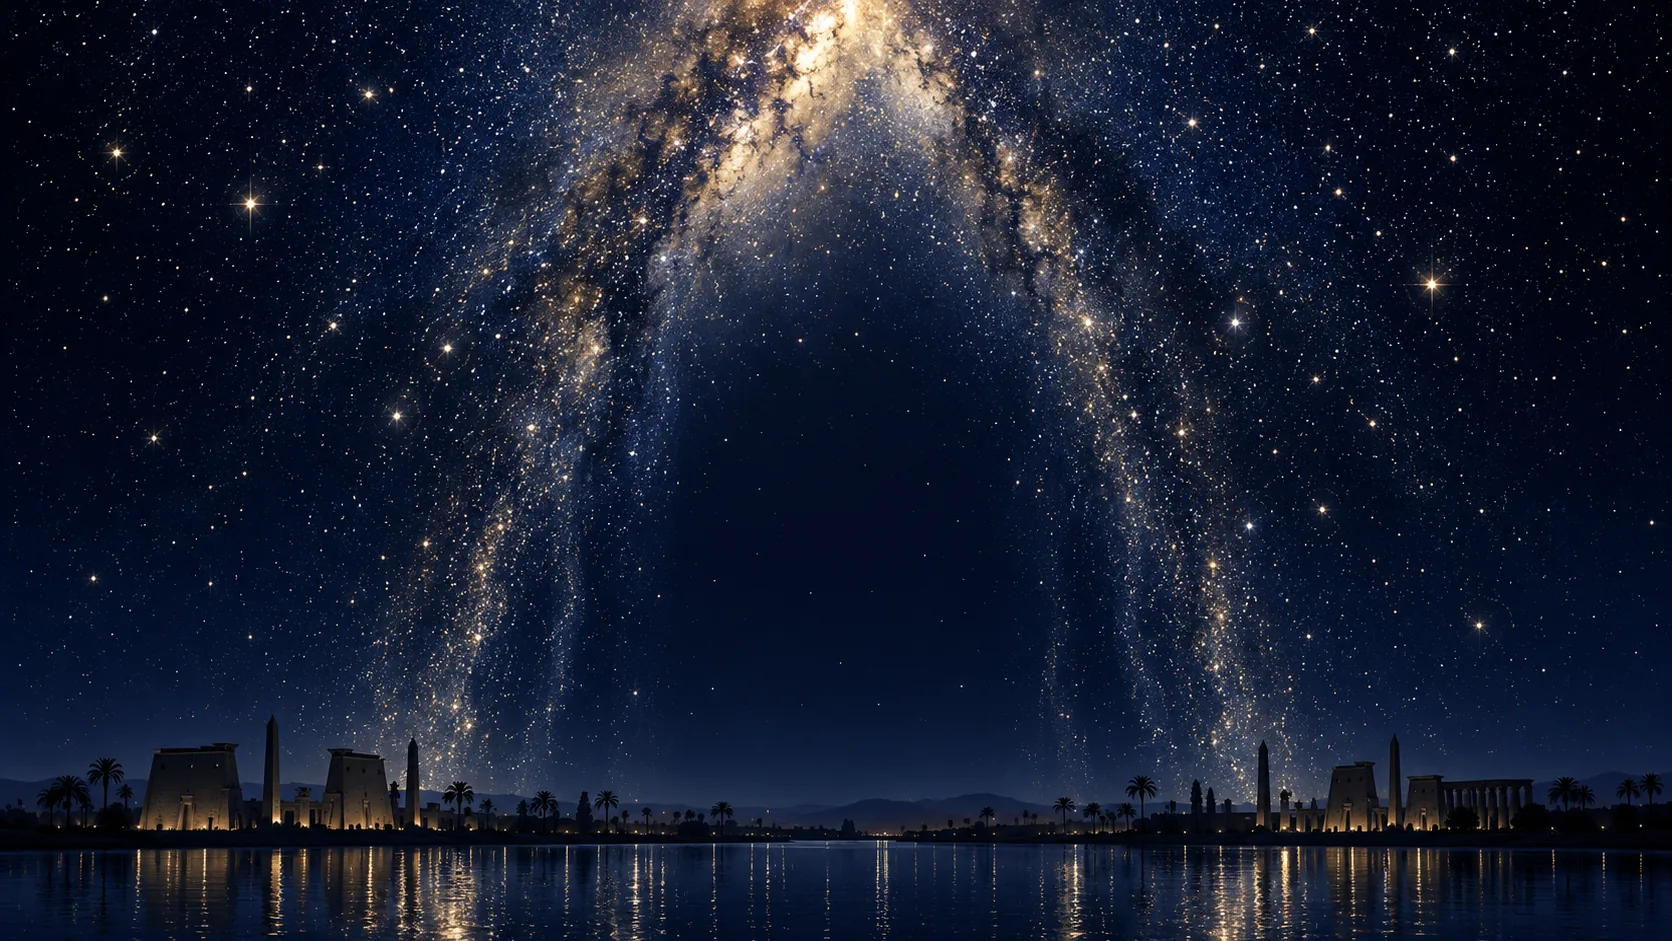
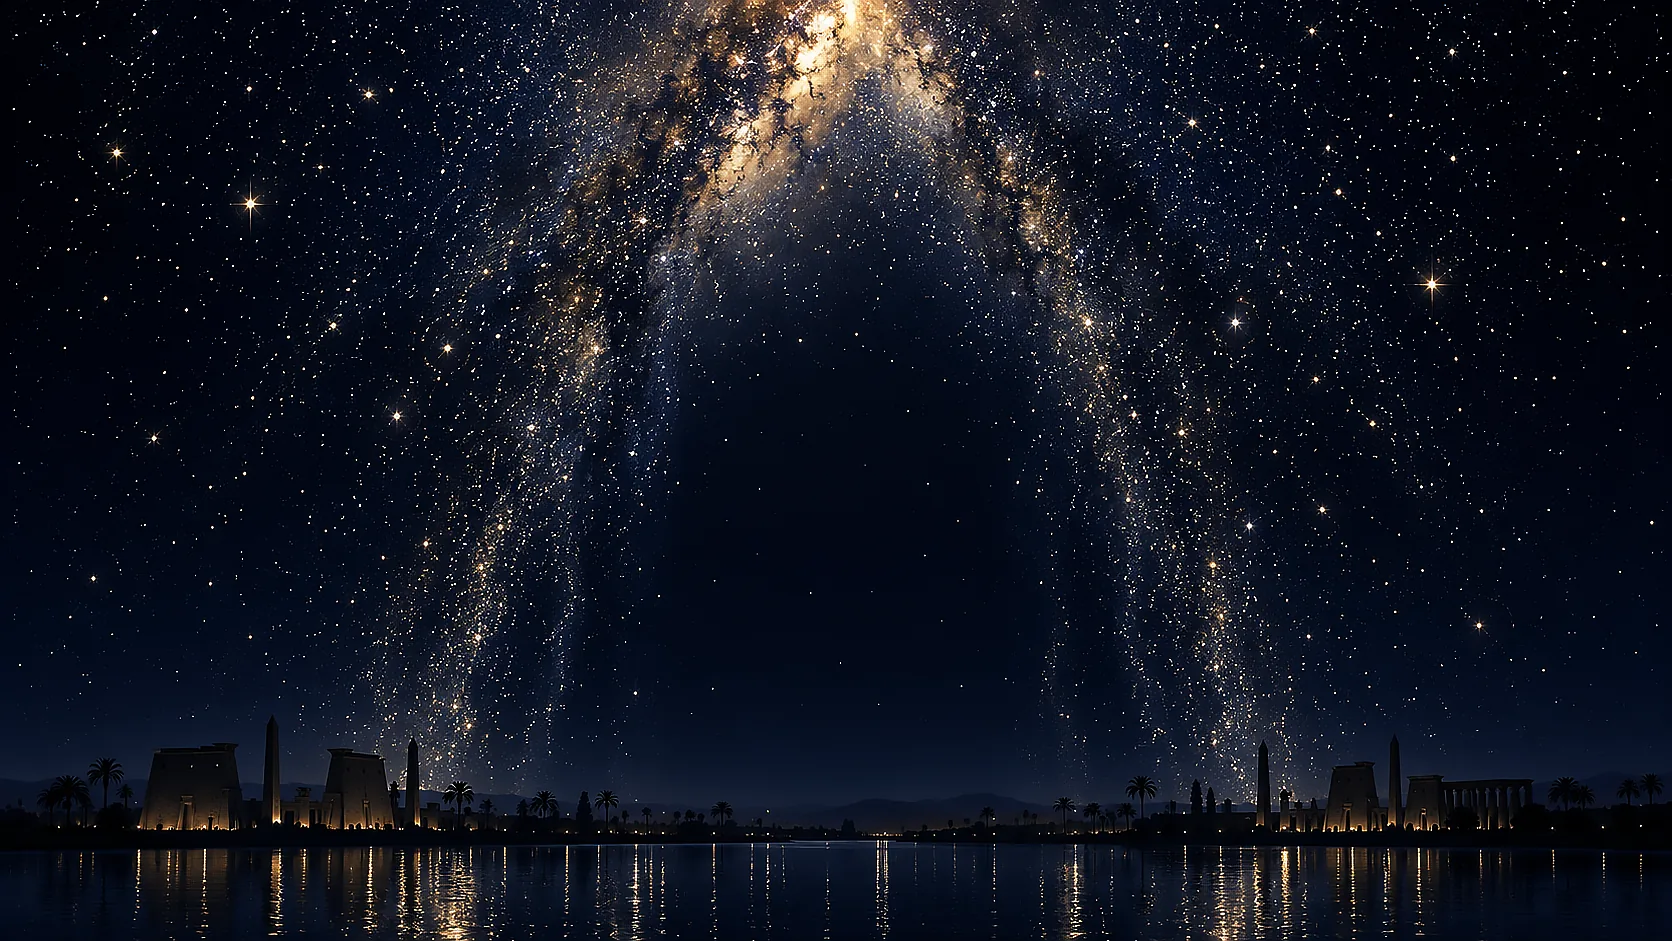
Add files via upload

diff --git a/talitha-koum/style.css b/talitha-koum/style.css
@@ -1107,3 +1107,26 @@ body{font-family:var(--serif)!important;font-weight:300;letter-spacing:-.005em}
 @media (max-width:700px){.pv-sky{background-position:50% 30%}}
 @media (hover:none),(pointer:coarse){.pv-sky{animation:none;filter:none}}
 @media (hover:none),(pointer:coarse),(max-width:700px){.pv-glow{display:none}}
+@media (max-aspect-ratio:3/4){.pv-sky{background-image:url(assets/galaxy_m.webp);background-position:50% 20%}}
+/* 파동 링: 크게 그려놓고 작게→원래 크기로 (확대 번짐 방지) */
+.pro-rings i{width:110vmin!important;height:110vmin!important;margin:-55vmin 0 0 -55vmin!important;background:none!important;border-width:1.5px!important}
+@media (hover:none),(pointer:coarse){.pro-cross .core{width:20vmin!important;background:radial-gradient(circle,rgba(255,240,200,.4),rgba(241,208,138,.1) 35%,transparent 62%)!important}}
+/* 하늘 더 뚜렷하고 진하게 */
+.pv-sky{filter:contrast(1.18) saturate(1.25) brightness(calc(1 + var(--beat) * .2))!important}
+.pv-dim{background:radial-gradient(ellipse 55% 40% at 50% 62%,rgba(3,6,22,.45),rgba(3,6,22,0) 70%),
+ linear-gradient(180deg,rgba(3,6,22,0) 0,rgba(3,6,22,0) 55%,rgba(3,6,22,.7) 100%)!important}
+@media (hover:none),(pointer:coarse){.pv-sky{filter:contrast(1.18) saturate(1.25)!important}}
+@media (hover:none),(pointer:coarse){.pro-cross .core{display:none!important}}
+.pro-cross .core{background:radial-gradient(circle,rgba(255,244,214,.5) 0,rgba(241,208,138,.14) 22%,rgba(241,208,138,0) 48%)!important}
+/* 원본을 직접 진하게 손봤으니 보정은 살짝만 */
+.pv-sky{filter:contrast(1.06) saturate(1.1) brightness(calc(1 + var(--beat) * .2))!important}
+@media (hover:none),(pointer:coarse){.pv-sky{filter:contrast(1.06) saturate(1.1)!important}}
+/* 애굽 땅(지평선)이 보이게 하늘 전체를 위로 끌어올림 */
+.pv-sky{inset:auto!important;left:-2%!important;right:-2%!important;top:-16%!important;bottom:16%!important;
+ background-size:cover!important;background-position:50% 100%!important;transform-origin:50% 100%;
+ -webkit-mask:linear-gradient(180deg,#000 0,#000 90%,transparent 100%);mask:linear-gradient(180deg,#000 0,#000 90%,transparent 100%)}
+.pv-dim{background:radial-gradient(ellipse 55% 34% at 50% 58%,rgba(3,6,22,.45),rgba(3,6,22,0) 70%),
+ linear-gradient(180deg,rgba(3,6,22,0) 0,rgba(3,6,22,0) 70%,rgba(3,6,22,.5) 100%)!important}
+@media (max-aspect-ratio:3/4){.pv-sky{top:-12%!important;bottom:12%!important;background-position:50% 100%!important}}
+.pro-cross .pro-rings i,.pro-cross .pro-rings i:not(.g){background:none!important;-webkit-mask:none!important;mask:none!important}
+@media (max-aspect-ratio:3/4){.pv-sky{top:-20%!important;bottom:20%!important}}

diff --git a/talitha-koum/main.js b/talitha-koum/main.js
@@ -329,7 +329,7 @@ gsap.set('#s-rules', { height: 'auto', minHeight: '100vh' });
   const TOUCH = matchMedia('(hover:none),(pointer:coarse)').matches;
   function pulse(k) {
     const r = rings[ri++ % rings.length];
-    gsap.fromTo(r, { scale: .25, opacity: .9 * k }, { scale: 2.6 + k * 1.4, opacity: 0, duration: 1.4, ease: 'expo.out', overwrite: true });
+    gsap.fromTo(r, { scale: .09, opacity: .9 * k }, { scale: .95 + k * .5, opacity: 0, duration: 1.4, ease: 'expo.out', overwrite: true });
     if (k > .75 && !TOUCH) {
       gsap.fromTo('#flash', { opacity: .12 * k }, { opacity: 0, duration: .5, overwrite: true });
       gsap.fromTo('#riser', { scale: 1.035 }, { scale: 1, duration: .45, ease: 'power2.out', overwrite: 'auto' });
